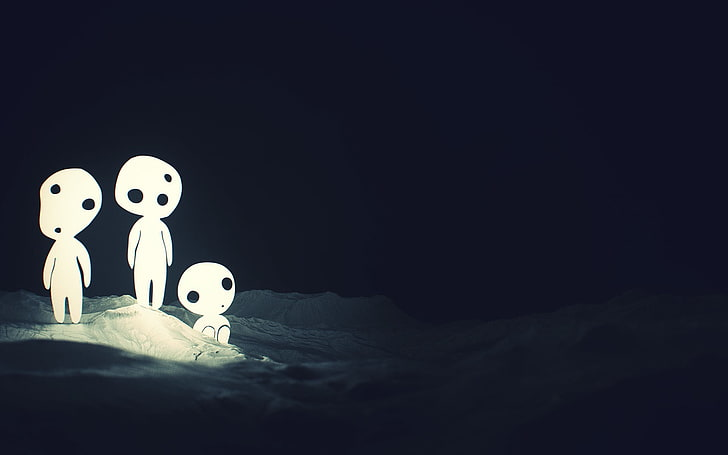
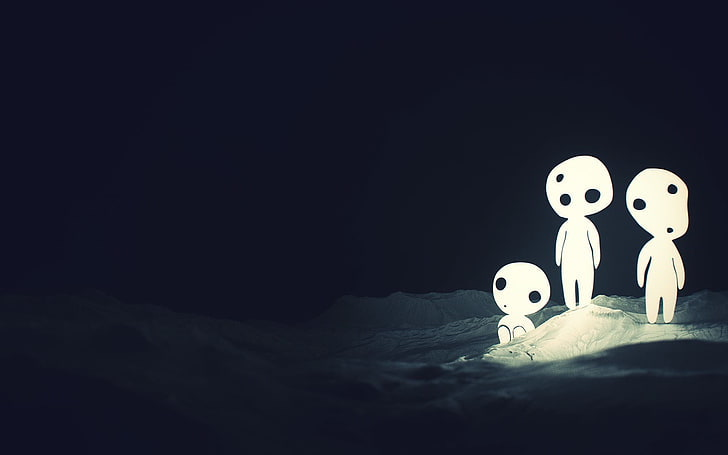
añadir imagen fondo, foto hayao M. y texto reseña

Changed region(s): [[0.544, 0.3385, 1.0, 0.8923], [0.0, 0.3385, 0.4533, 0.8923]]

diff --git a/src/main.js b/src/main.js
@@ -7,15 +7,18 @@ let dropdownFilms = document.getElementById("selectFilm"); // Get dropdown eleme
 for (let i = 0; i < allFilms.length; ++i) {
     // Append the element to the end of Array list
     let arrayFilms = allFilms[i];
-    //console.log(arrayFilms);
+    // la capacidad de dropdownFilms[] se declara según la propiedad title e id del objeto/array, arrayFilms
     dropdownFilms[dropdownFilms.length] = new Option(arrayFilms.title, arrayFilms.id);
 };
 
-dropdownFilms.addEventListener('change', function () {
-    let valueFilm = dropdownFilms.options[dropdownFilms.selectedIndex].value;
-    let filmSelected = allFilms.filter(element => element.id == valueFilm);
+dropdownFilms.addEventListener('change', function (showFilm) {
+    let valueFilm = dropdownFilms.options[dropdownFilms.selectedIndex].value; //valor de Film sera igual al valor del indice seleccionado
+    let filmSelected = allFilms.filter(element => element.id == valueFilm); // Filtra según el id == valor del indice seleccionado
 
+    //Recorriendo array del film seleccionado
     for (let i = 0; i < filmSelected.length; ++i) {
+
+        //Recogiendo propiedades del objeto del film seleccionado
         let filmArray = filmSelected[i],
             titleFilm = filmArray.title,
             descriptionFilm = filmArray.description,
@@ -24,7 +27,8 @@ dropdownFilms.addEventListener('change', function () {
             dateFilm = filmArray.release_date,
             rtScoreFilm = filmArray.rt_score;
 
-        document.write("Título: " + titleFilm  + "<br>" + "Descripción: " + descriptionFilm + "<br>" + "Director: " + directorFilm + "<br>" + "Año: " + dateFilm + "<br>" + rtScoreFilm);
+        document.write("Título: " + titleFilm + "<br>" + "Descripción: " + descriptionFilm + "<br>" + "Director: " + directorFilm + "<br>" + "Año: " + dateFilm + "<br>" + rtScoreFilm);
+
     }
 });
 

diff --git a/src/index.html b/src/index.html
@@ -12,7 +12,10 @@
     <!-- navigation section for tabs or main menu -->
   </nav>
   <header class="main-header">
-    <!-- here goes bienvenida y Hayao y resena -->
+    <h1>Studio Ghibli</h1>
+    <div id="photo-creator"><img src="../images/inicio/hayao miyazaki.jpeg" width="450"></div>
+    <p>El Studio Ghibli (スタジオジブリ Sutajio Jiburi) es un estudio de animación japonés, con sede en Tokio. Fue fundada en 1985 por Hayao Miyazaki y Isao Takahata, y a día de hoy, han realizado más de 20 películas, además de otras clases de trabajos como cortometrajes, anuncios publicitarios, entre otros.</p>
+    <p>Debido a su popularidad, se abrió el Museo Ghibli, el cual se encuentra a las afueras de Tokio y para el 2022 se espera tener listo el Ghibli Park.</p>
   </header>
   <section>
     <!-- here goes busqador y -->

diff --git a/src/style.css b/src/style.css
@@ -1,0 +1,16 @@
+
+  
+body{
+    font-family: Roboto;
+    color: white;
+
+    background-image: url(../images/inicio/princesa\ mononoke\ inicio.jpeg); 
+    background-repeat: no-repeat;
+    background-size: contain;
+    height: 850px;  
+    background-origin: border-box;      
+}
+.main-header{
+    width: 450px;
+    border-image: 0px;
+}
